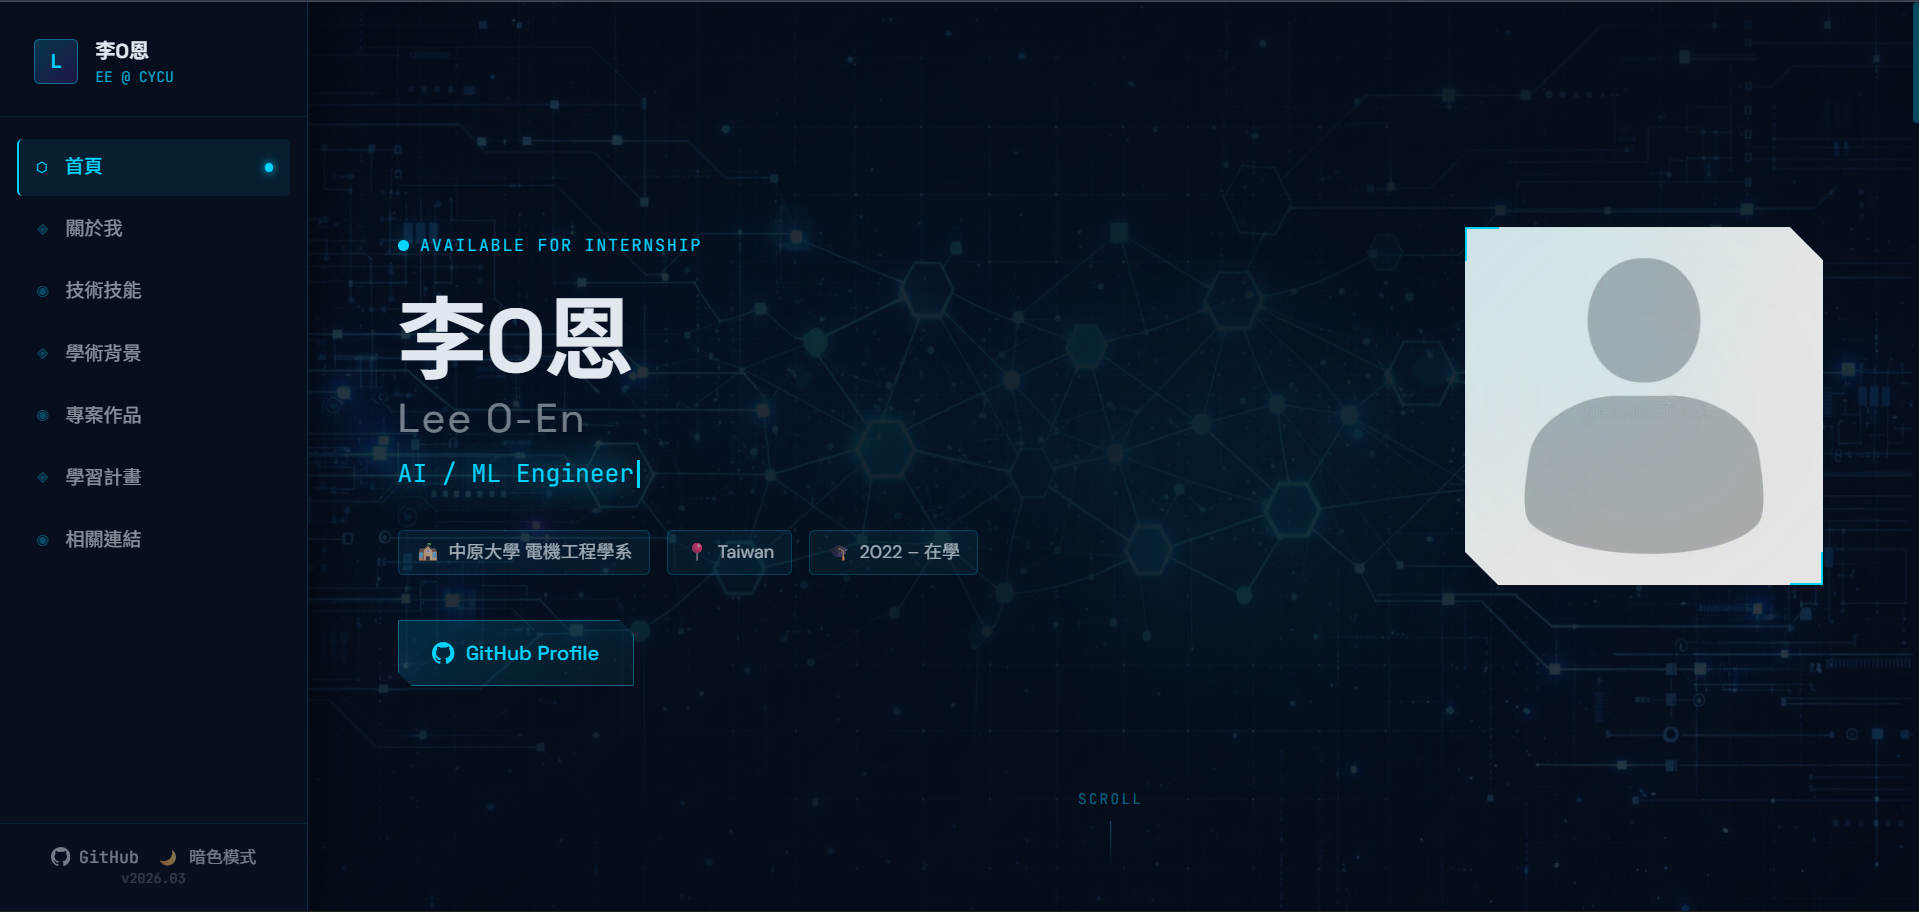
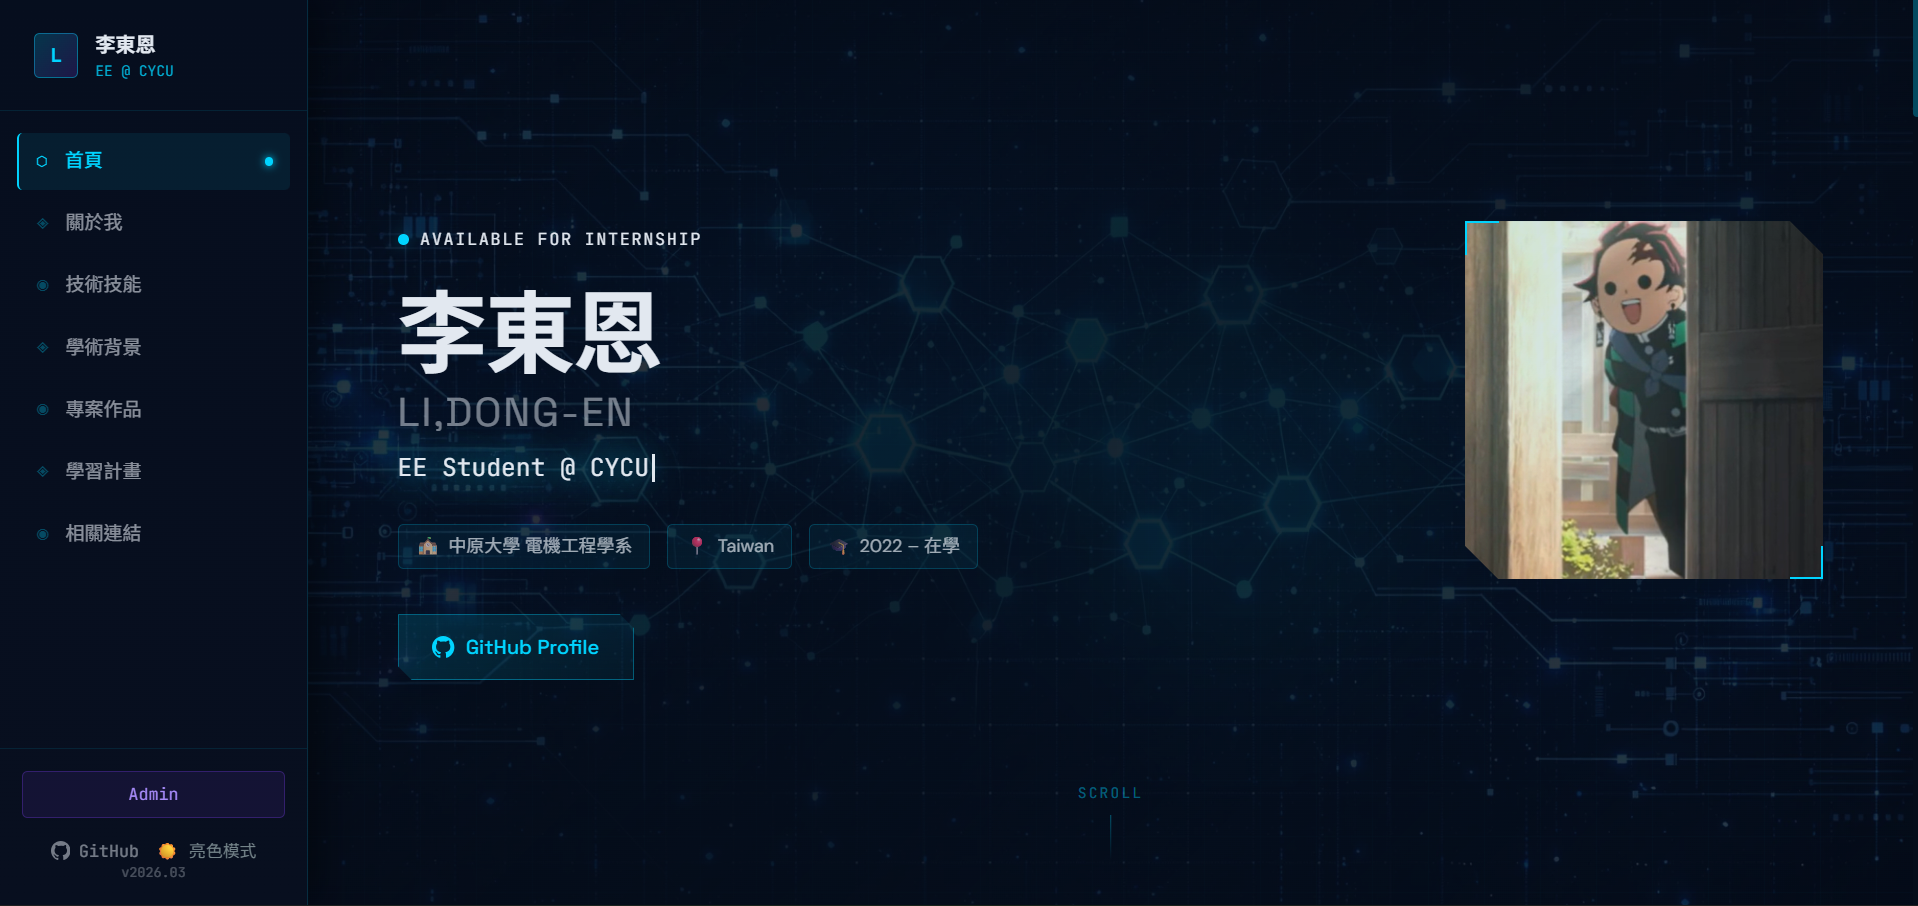
change README picture

diff --git a/README.md b/README.md
@@ -104,11 +104,13 @@ npx pnpm@latest run format
 
 ### 預覽截圖
 
+- 暗色模式下的首頁：
+
 ![預覽圖_1](images/image.png)
 
-![預覽圖_2](images/image-1.png)
+- 亮色模式下的首頁：
 
-![預覽圖_3](images/image-2.png)
+![預覽圖_2](images/image-1.png)
 
 ## 5. 專案結構
 ```
